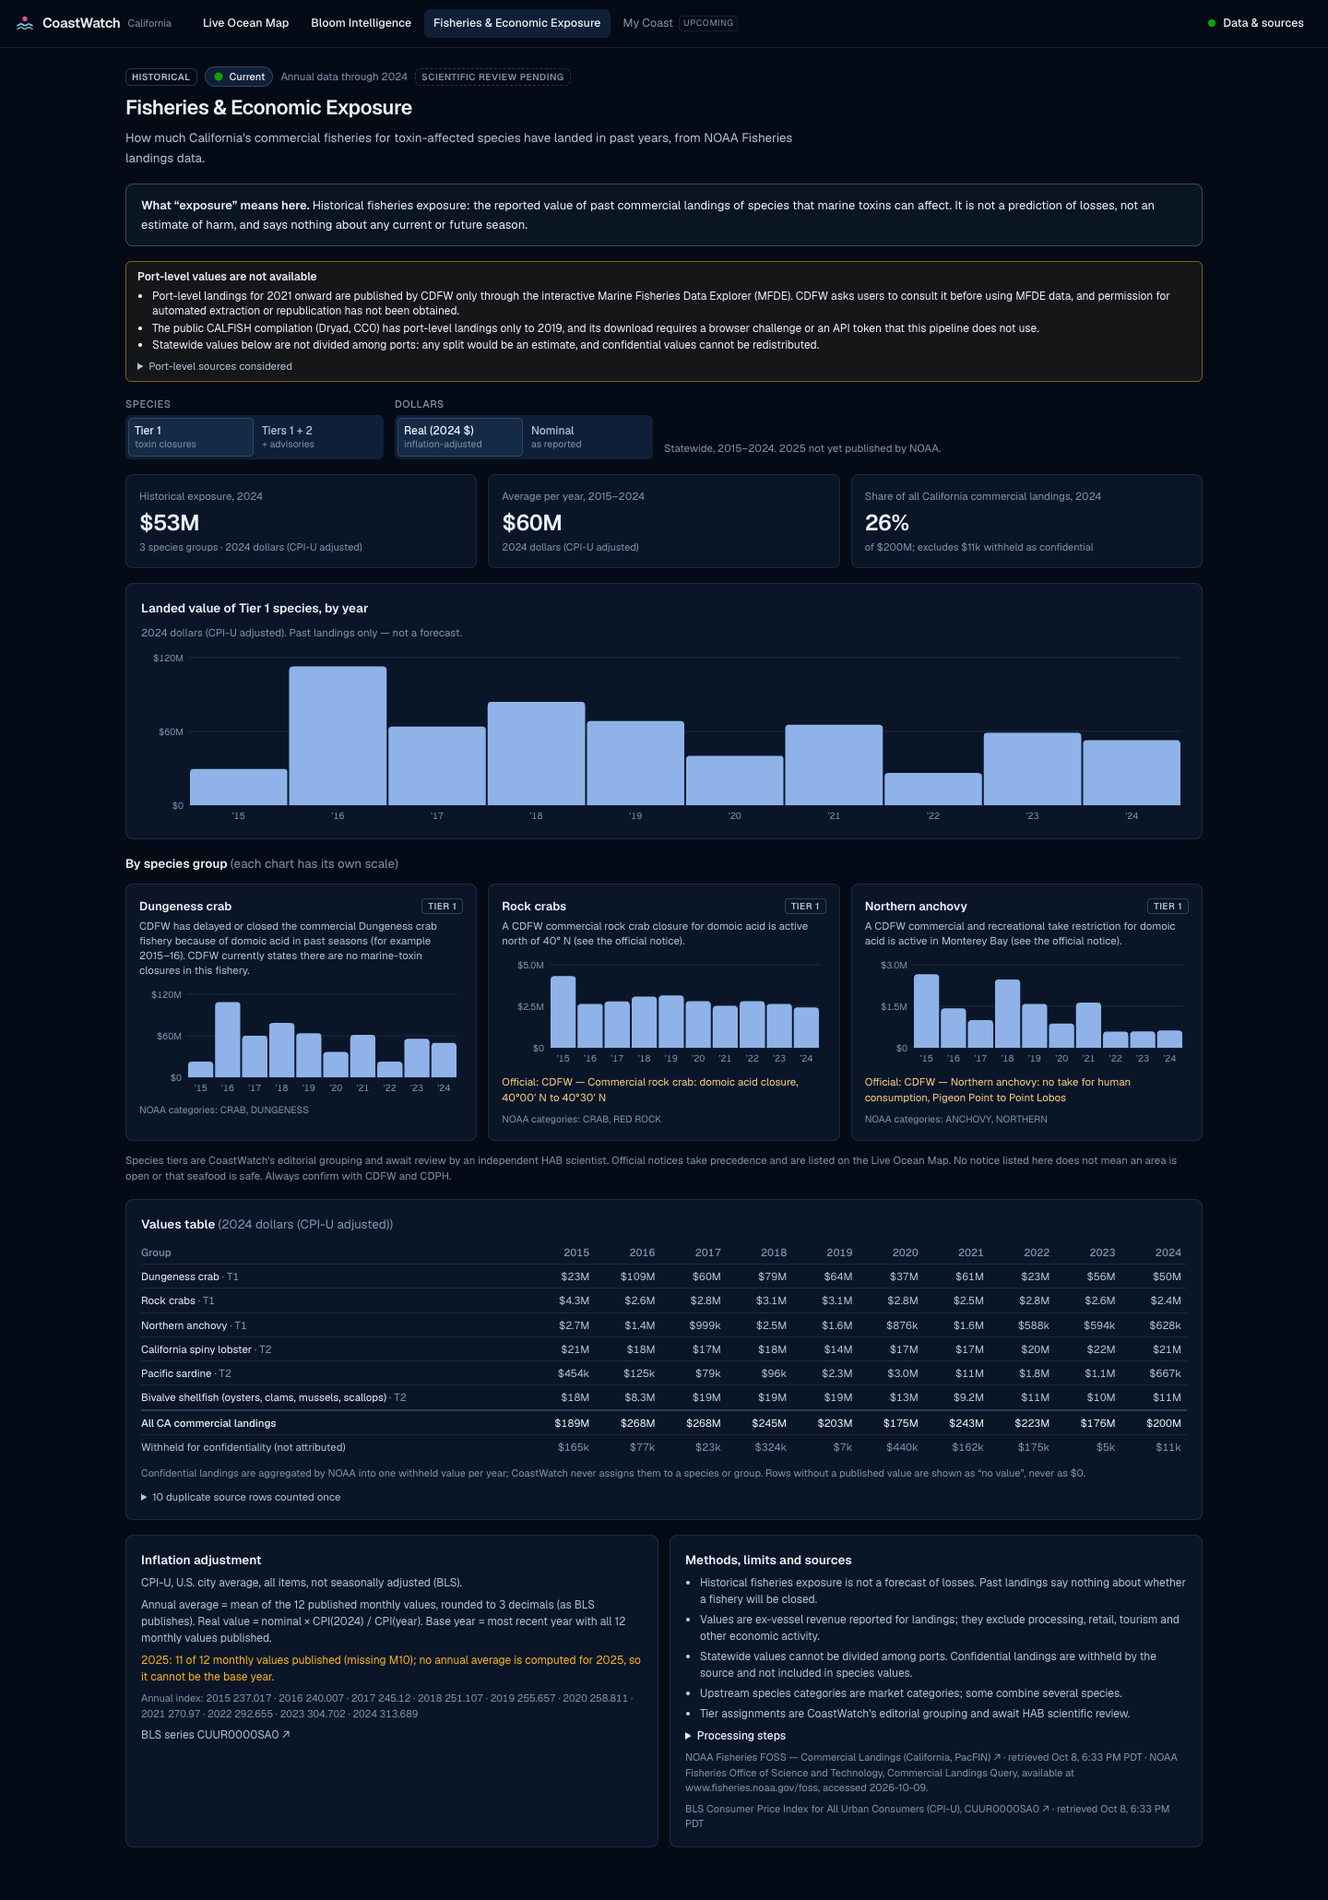
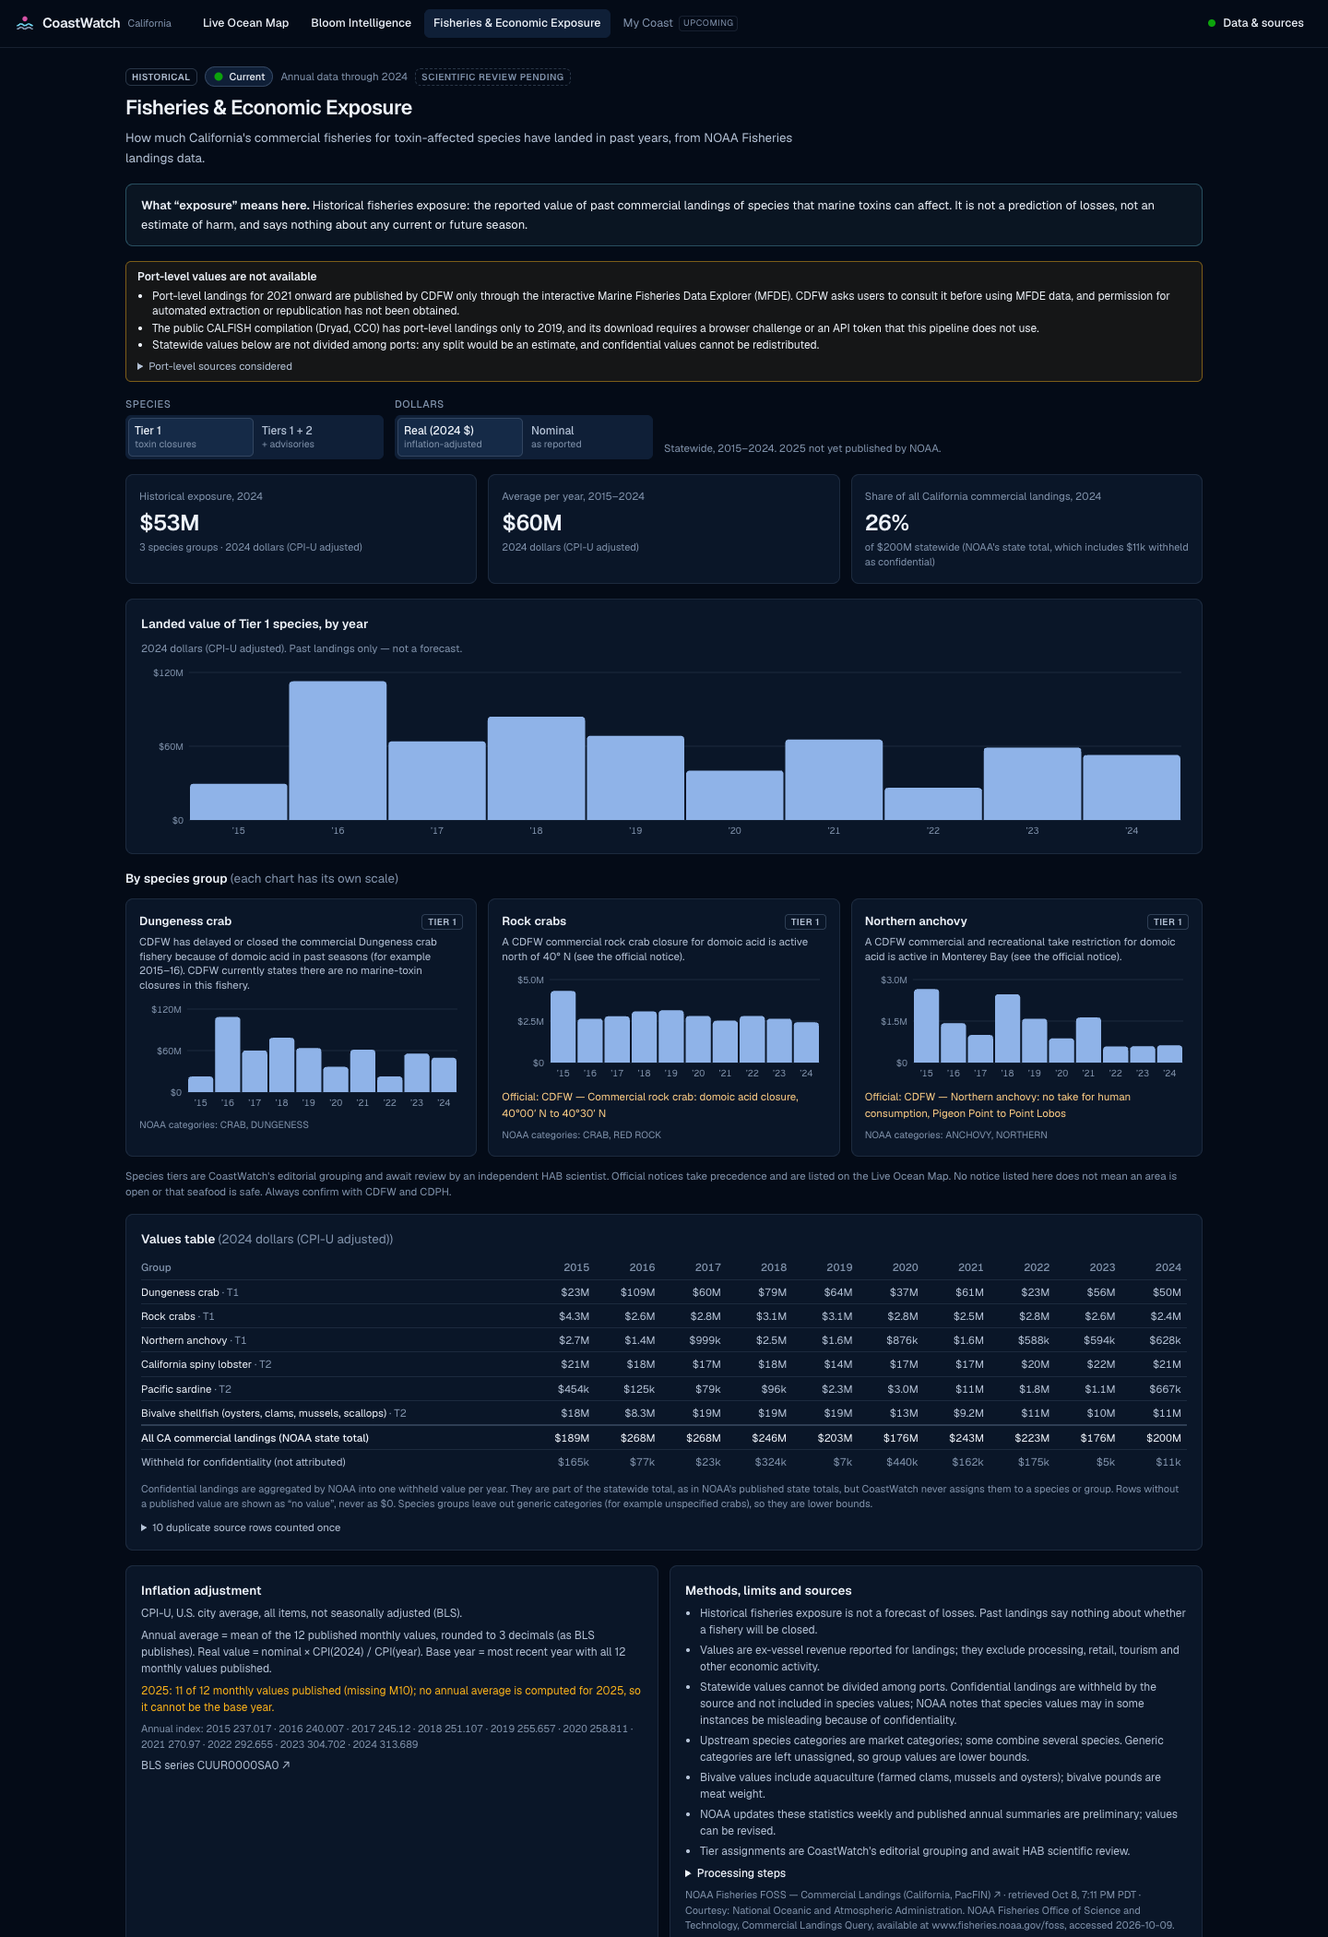
docs(coastwatch): M3 integration review, CDFW data-request draft, refreshed screenshots

diff --git a/docs/coastwatch/12-m3-integration-review.md b/docs/coastwatch/12-m3-integration-review.md
@@ -1,0 +1,102 @@
+# 12 — M3 integration review
+
+Date: 2026-10-08 (UTC 2026-10-09). Branch `feat/coastwatch-m3-bloom-economics` → `main`. The Next.js website is **not deployed**. Official notices remain **Not verified** (pending human review); no scientific sign-off is claimed; M4 not started.
+
+## 1. Redistribution terms and attribution
+
+**CalHABMAP (all 17 datasets checked individually).** Each dataset's `NC_GLOBAL` attributes were read from `https://erddap.sccoos.org/erddap/info/HABs-<Station>/index.csv`: Trinidad Pier, Humboldt, Humboldt South Bay, Bodega Marine Lab, Bodega Marine Lab Buoy, Tomales Bay Mouth, Tomales Bay Mid-Channel Buoy, Inner Tomales Bay, Santa Cruz Wharf, Monterey Wharf, Morro Bay Front Bay, Morro Bay Back Bay, Cal Poly Pier, Stearns Wharf, Santa Monica Pier, Newport Beach Pier, Scripps Pier.
+
+| Attribute | Value (identical in all 17) |
+|---|---|
+| `license` | "The data may be used and redistributed for free but is not intended for legal use, since it may contain inaccuracies. Neither the data Contributor, ERD, NOAA, nor the United States Government … makes any warranty … or assumes any legal liability …" |
+| `creator_name` / `institution` | CalHABMAP |
+| `creator_url` / `infoUrl` | https://calhabmap.org |
+| citation / acknowledgement attributes | none published |
+
+CalHABMAP's own data page (https://calhabmap.org/datasites) links each of its stations to exactly these SCCOOS ERDDAP datasets, so this is the program's designated distribution. No separate data-use or citation policy was found on calhabmap.org (about, data, FAQ, resources) or on SCCOOS's HAB and data-access pages. The licence text is ERDDAP's standard wording, applied uniformly by the publisher.
+
+**Conclusion:** free redistribution is permitted. The restriction "not intended for legal use" matches CoastWatch's rule that official agencies decide closures. CoastWatch attributes "California Harmful Algal Bloom Monitoring and Alert Program (CalHABMAP), via SCCOOS ERDDAP" and quotes the licence on the page and in the artifact. No dataset has different terms.
+
+**NOAA Fisheries FOSS landings.**
+- NOAA Fisheries copyright policy (https://www.fisheries.noaa.gov/national/about-us/website-policies-and-disclaimers): "Information created by the U.S. government … is not subject to copyright in the United States … we also request that NOAA Fisheries be given appropriate acknowledgement ('Courtesy: National Oceanic and Atmospheric Administration')." **Added** to the artifact's citation (it appears on the page).
+- FOSS caveats (https://apps-st.fisheries.noaa.gov/foss/f?p=215:240): only non-confidential statistics are released; confidential landings are "combined with other landings and usually reported as 'Withheld for Confidentiality'"; "Total landings by state include confidential data and will be accurate, but landings reported by individual species may, in some instances, be misleading"; bivalves are meat weight; "Landings do not include aquaculture products except for clams, mussels and oysters"; dollars are nominal ex-vessel ("Users can use the Consumer Price Index … to convert"); data are updated weekly. All are now stated on the page.
+
+**BLS CPI-U** (`CUUR0000SA0`): U.S. Government work, public domain.
+
+**Not used (unchanged):** CDFW MFDE (permission uncertain), CALFISH (download challenge/token), PacFIN direct (terms unverified), CDPH phytoplankton layer (no licence).
+
+## 2. NOAA landings methodology audit
+
+**Duplicate oyster listing: confirmed upstream.** FOSS's own source-species table (`/ods/foss/source_species/`) maps PacFIN (`source_id` 3) code **KSTR "KUMAMOTO OYSTER"** to both TSN 79868 ("OYSTER, PACIFIC") and TSN 79869 ("OYSTER, KUMAMOTO"). It is the **only** one of 455 PacFIN codes mapped to two names. The same landings therefore appear twice in every year: California has the identical pair in all 10 years, and Washington shows the same pair (2023: $1,305,870.82 in both rows). CoastWatch counts the row once and lists the excluded row on the page.
+
+**Statewide totals vs NOAA's published summaries** (Fisheries of the United States 2022, Table 4: [S3 PDF](https://s3.amazonaws.com/media.fisheries.noaa.gov/2025-01/FUS-2022-final3.pdf); FUS 2023, Table 4: [S3 PDF](https://s3.amazonaws.com/media.fisheries.noaa.gov/2026-02/FUS-2023-web.pdf)), California, thousands of dollars:
+
+| Year | NOAA FUS | FOSS, all rows summed | FOSS, duplicate counted once (**CoastWatch**) | Difference vs FUS |
+|---|---|---|---|---|
+| 2021 | 209,783 (FUS 2022) | 210,456 | 209,713 | −0.03% |
+| 2022 | 207,919 (FUS 2022) / 207,849 (FUS 2023) | 211,803 | 207,870 | −0.02% / +0.01% |
+| 2023 | 170,330 (FUS 2023) | 175,009 | 170,610 | +0.16% |
+
+NOAA's published state totals equal FOSS with the KSTR duplicate counted once. A plain sum of all rows overshoots by 0.3–2.7%. The residual differences are consistent with FOSS's weekly revisions after each FUS edition, which FUS itself calls "preliminary and subject to revision".
+
+**Change made:** the earlier statewide total also excluded the withheld row. NOAA's state totals include it and NOAA states they are accurate, so the CoastWatch total now **includes the withheld amount**. The withheld amount is still shown separately and never attributed to any species. Before the change, 2024 read $200.0M excluding $10.8k withheld; it now reads $200.0M including it.
+
+**Inflation adjustment.** BLS's series page shows half-year averages (HALF1/HALF2), and the mean of each pair reproduces every annual index the pipeline computes from 12 monthly values (2015 237.017 … 2024 313.689). October 2025 is printed "-(X)" with the footnote "Data unavailable due to the 2025 lapse in appropriations", which confirms 2024 as the base year. 2024-dollar check: Dungeness 2015 = $17,002,331 × 313.689 / 237.017 = $22.50M (tested to the cent).
+
+**Species categorization audit** (every California name 2015–2024 matching crab, anchovy, lobster, sardine, bivalve and related terms):
+- Assigned as intended: CRAB, DUNGENESS; CRAB, RED ROCK; ANCHOVY, NORTHERN; LOBSTER, CALIFORNIA SPINY; SARDINE, PACIFIC; OYSTER (Pacific, Eastern, Edible, Olympia); CLAMS **.
+- **Bug fixed:** `SCALLOPS **` was not matched because FOSS's generic suffix " **" was allowed only for clams. All bivalve patterns now accept it ($0 in these years, so no published value changed).
+- Deliberately unassigned and disclosed as making groups lower bounds: CRABS, DECAPODA (ORDER) ** ($2.9M over 10 years; may include yellow and brown rock crab), MOLLUSKS ** ($0.9M), ANCHOVIES ($0), CRAB, KING **, market squid and sea urchin (not toxin-closure fisheries).
+- The bivalve group is mostly **aquaculture** in FOSS and is now labelled so.
+
+**Confidentiality suppression.** Only FOSS's public, already-aggregated withheld row is used. Nothing is estimated or redistributed to species, and port-level data are not used.
+
+**Pipeline fix found during review:** the weekly fisheries refresh would have reused an artifact built by older code. It now rebuilds whenever the pipeline version changes (tested).
+
+## 3. Tests, C-HARM verification and staging checks (final head)
+
+| Check | Result |
+|---|---|
+| Pipeline offline (`uv run pytest`) | **126 passed**, 1 deselected (live) — new: NOAA FUS reproduction, generic-category matching, attribution/caveats, version-triggered rebuild |
+| Live upstream test (`pytest -m live`) | 1 passed |
+| Full live pipeline run (local) | all 7 sources updated; `check-published` 30/30 |
+| **C-HARM verification** (`cwp verify-charm`, live ERDDAP) | **156/156** comparisons, 0 failures (13 points × 12 layers) |
+| Web unit | **68 passed** (new: region bounds equal curated regions) |
+| Lint, typecheck, production build | clean |
+| End-to-end (4 servers incl. published M2 data; axe; mobile) | **42 passed** |
+| Staging data run [37873331347](https://github.com/yashnil/habs-forecast/actions/runs/37873331347) | green; `check-published` 30/30 with run id; fisheries rebuilt by the new code (2022 total $207.87M, NOAA courtesy line present) |
+| CI on head | green |
+
+## 4. Frontend against published data (production build)
+
+| Dataset | Result |
+|---|---|
+| GitHub Pages (M2 data, run 37846066753) | **3/3**: forecast, official notices, port panel; `/bloom` and `/fisheries` show "published before … were added" states |
+| Staging (M3 data) | **3/3** |
+
+Schema compatibility: M3 adds only optional manifest fields. The M2 Pages files are committed as fixtures, validated by the pipeline models and the browser schemas, and used by an e2e server.
+
+An earlier staging run passed only on retry. The cause is the documented server fetch cache (stale-while-revalidate, 5 minutes): `.next/cache` still held the staging manifest from before the republish. With the cache cleared, both datasets passed 3/3 with retries disabled.
+
+## 5. Screenshot review (13 images in `m3/`)
+
+| Screenshot | Finding | Action |
+|---|---|---|
+| 11 (Trinidad) | Station map framed all of California, so the selected station sat on the edge | **Fixed:** the map frames the station's official region and re-frames when the region changes (13 shows Scripps) |
+| 04 header | Page-level "Current" badge could be read as describing the selected station | **Fixed:** labelled "newest sample in the network; each station shows its own" |
+| 06 | Share tile said the total excluded withheld landings | **Fixed** with the new NOAA-consistent total and wording |
+| 01–03, 05, 07–10, 12 | Official first, Not verified visible, reported zeros in a separate lane, not-measured states explicit, model on its own axis, legend on map, mobile layouts without overflow | No change |
+
+Accessibility: axe reports no serious or critical violations on map, bloom, fisheries and sources pages. Charts are keyboard-readable and have data tables; station selection works by keyboard and select.
+
+## 6. Publication exposure check
+
+The data branch receives only `v1/` pipeline artifacts (`guard-publish` OK). The M3 additions:
+- `observations-<sha>.json`: public CalHABMAP values under their redistribution licence.
+- `fisheries-<sha>.json`: NOAA public, non-confidential statewide statistics, with NOAA's withheld aggregate shown as published. No port-level fields, no synthetic test data, no contact details, no estimates of confidential values.
+
+The official registry is published exactly as in M2: `pending_human_review`, shown as Not verified.
+
+## 7. Merge and production verification
+
+_Filled in after the merge (section below)._

diff --git a/docs/coastwatch/11-m3-implementation.md b/docs/coastwatch/11-m3-implementation.md
@@ -1,5 +1,7 @@
 # 11 — Milestone 3: Bloom Intelligence, Fisheries Economics & Product Design
 
+> Updated by the integration review ([12](12-m3-integration-review.md)): licensing evidence, NOAA reconciliation, statewide-total definition, fixes and merge results are recorded there.
+
 Branch `feat/coastwatch-m3-bloom-economics` (pushed; **not merged, website not deployed, nothing published to production**). Built and verified 2026-10-08. Data published only to the staging channel (`coastwatch-data-staging`, never served by GitHub Pages).
 
 **Not claimed:** the official notices remain an unreviewed AI transcription (`pending_human_review`, shown as **Not verified**); no HAB scientist has reviewed the new pages (shown as **Scientific review pending**); species tiers are an editorial grouping awaiting that review.
@@ -49,12 +51,12 @@ Staging run, 2026-10-08: all 17 stations updated and C-HARM context for all 17. 
 - **Terminology.** "Historical fisheries exposure: the reported value of past commercial landings of species that marine toxins can affect. It is not a prediction of losses…" Tests fail if "loss" appears un-negated anywhere in the artifact or rendered page.
 - **Groups (tiers await scientific review).** Tier 1 — Dungeness crab, rock crabs, northern anchovy (commercial closures or take restrictions for domoic acid, current or past; rock crab and anchovy link the active official records). Tier 2 — California spiny lobster, Pacific sardine, bivalve shellfish. Each upstream row maps to at most one group by exact name; an ambiguous name raises.
 - **Inflation.** Real = nominal × CPI(2024)/CPI(year), CPI-U annual averages from 12 published months; base year rule and the missing October 2025 value are shown on the page.
-- **Suppression.** FOSS's withheld row stays separate every year, never attributed; rows without a value are counted, never treated as $0.
-- **No double counting.** Group sums + ungrouped rows reconcile exactly to the statewide total in every year (tested against the raw responses); the duplicate oyster listing is excluded and listed.
+- **Suppression.** FOSS's withheld row is shown separately every year and never attributed to a species or group; it is included in the statewide total, as in NOAA's own state totals (changed in the integration review, see 12). Rows without a value are counted, never treated as $0.
+- **No double counting.** Group sums reconcile exactly to the assigned source rows and the statewide total to all kept rows in every year (tested against the raw responses); the duplicate oyster listing (PacFIN code KSTR mapped to two FOSS names, confirmed upstream in 12) is excluded and listed. The statewide total reproduces NOAA's published California totals within 0.17%.
 - **Port level.** `PortLevelStatus = unavailable` with reasons. A disclosure-safe aggregation (`aggregate_cells`) exists for when a port-level source is authorised: suppressed components are never estimated, aggregates containing them are labelled "at least", and complementary suppression blocks a total that would reveal a single withheld component. Tested only with clearly labelled synthetic cells; no real port data exist in the repository.
 - **UI.** Definition box, port-level unavailable notice, tier and real/nominal filters, three summary tiles, total bar chart, per-group small multiples (own scales, tier basis, official links, upstream category names), values table with statewide total and withheld row, duplicate disclosure, deflator box, methods and provenance.
 
-Staging values (2024, nominal): Dungeness $49.7M, spiny lobster $20.9M, bivalves $10.9M, rock crab $2.4M, sardine $0.67M, anchovy $0.63M; all California commercial landings $200.0M (excluding the withheld $10.8k).
+Staging values (2024, nominal): Dungeness $49.7M, spiny lobster $20.9M, bivalves $10.9M, rock crab $2.4M, sardine $0.67M, anchovy $0.63M; all California commercial landings $200.0M (NOAA state total, including the $10.8k withheld).
 
 ## 5. UI and design changes
 

diff --git a/docs/coastwatch/drafts/cdfw-landings-data-request.md b/docs/coastwatch/drafts/cdfw-landings-data-request.md
@@ -1,0 +1,28 @@
+# DRAFT — not sent
+
+**To:** CDFW Marine Region, Data Management (via the contact listed on the Marine Fisheries Data Explorer page, https://wildlife.ca.gov/Conservation/Marine/Data-Management-Research/MFDE)
+**Subject:** Request for publicly releasable annual commercial landings by port area and species, and permission to display them
+
+Dear Marine Region Data Management team,
+
+I maintain CoastWatch, a free, non-commercial website (no accounts, no advertising) that helps California's fishing communities follow official harmful-algal-bloom information. It shows CDFW and CDPH notices first, alongside NOAA's C-HARM forecast and CalHABMAP shore-station measurements.
+
+We would like to show **historical fisheries exposure**: the past landed value of species affected by domoic-acid closures and advisories (Dungeness crab, rock crabs, northern anchovy, spiny lobster, Pacific sardine, bivalves). This would be shown by port area. It is labelled as history, never as predicted loss. Today we show only NOAA FOSS statewide totals, because port-area values for 2021 onward appear to be available only through the MFDE dashboards. We have not extracted any MFDE data.
+
+We are asking:
+
+1. **Data.** Is there a disclosure-safe, publicly releasable table of annual commercial landings (pounds and ex-vessel value) by **port area** and **species or market category**, for 2015 to the latest finalized year? A file you already publish, or an export of MFDE's public aggregates, would be ideal.
+2. **Confidentiality.** How are confidential values marked (for example withheld cells or combined categories)? Which aggregation rules should we follow so that we never reveal a withheld value? This includes not deriving one by subtracting from a total. We already carry suppression through every sum, treat a missing value as "withheld" rather than zero, and never estimate suppressed cells.
+3. **Permission.** May CoastWatch display these aggregates and keep a cached copy? We refresh automatically about weekly and keep previous versions for audit. If so, what attribution and disclaimer wording do you require? Are there conditions such as review before publication, update cadence, or removal on request?
+4. **Revisions.** How are figures for recent years revised, and when are they considered final?
+
+What we would publish: annual port-area × species-group totals, inflation-adjusted with the BLS CPI-U and clearly labelled, with the source, retrieval date and CDFW's attribution. We would not publish vessel, dealer or trip-level data.
+
+Until we hear from you, port-level values stay marked "unavailable" on the site.
+
+Thank you for considering this request.
+
+[Name]
+[Role / affiliation]
+[Contact email — to be filled in by the sender]
+[Project link]

diff --git a/docs/coastwatch/README.md b/docs/coastwatch/README.md
@@ -15,6 +15,8 @@ Planning and architecture for turning `coastwatch-web/` and the HABs research in
 | [09 — Milestone 2 implementation](09-m2-implementation.md) | Official notices (human-reviewed), port intelligence, redesigned map; tests, screenshots, limits |
 | [10 — M2 integration review](10-m2-integration-review.md) | Schema-compatibility fix, Node 24 actions, staging run, production-equivalent checks, merge decision |
 | [11 — Milestone 3 implementation](11-m3-implementation.md) | Source audit, CalHABMAP observations, Bloom Intelligence, statewide fisheries exposure (FOSS + CPI-U), UI refinement, compatibility with published M2 data, staging results, decisions awaiting approval |
+| [12 — M3 integration review](12-m3-integration-review.md) | Licence evidence per dataset, NOAA reconciliation (KSTR duplicate, FUS Table 4), deflator check, fixes, test and publication evidence, merge results |
+| [drafts/cdfw-landings-data-request.md](drafts/cdfw-landings-data-request.md) | **Draft, not sent:** request to CDFW for disclosure-safe port-area landings and display permission |
 | [m3/](m3/) | Screenshots of the M3 app (staging data, 2026-10-08) |
 | [m2/](m2/) | Screenshots of the M2 app (live data, 2026-10-08) |
 | [m1/](m1/) | Screenshots of the running app (live data, 2026-10-08) |
